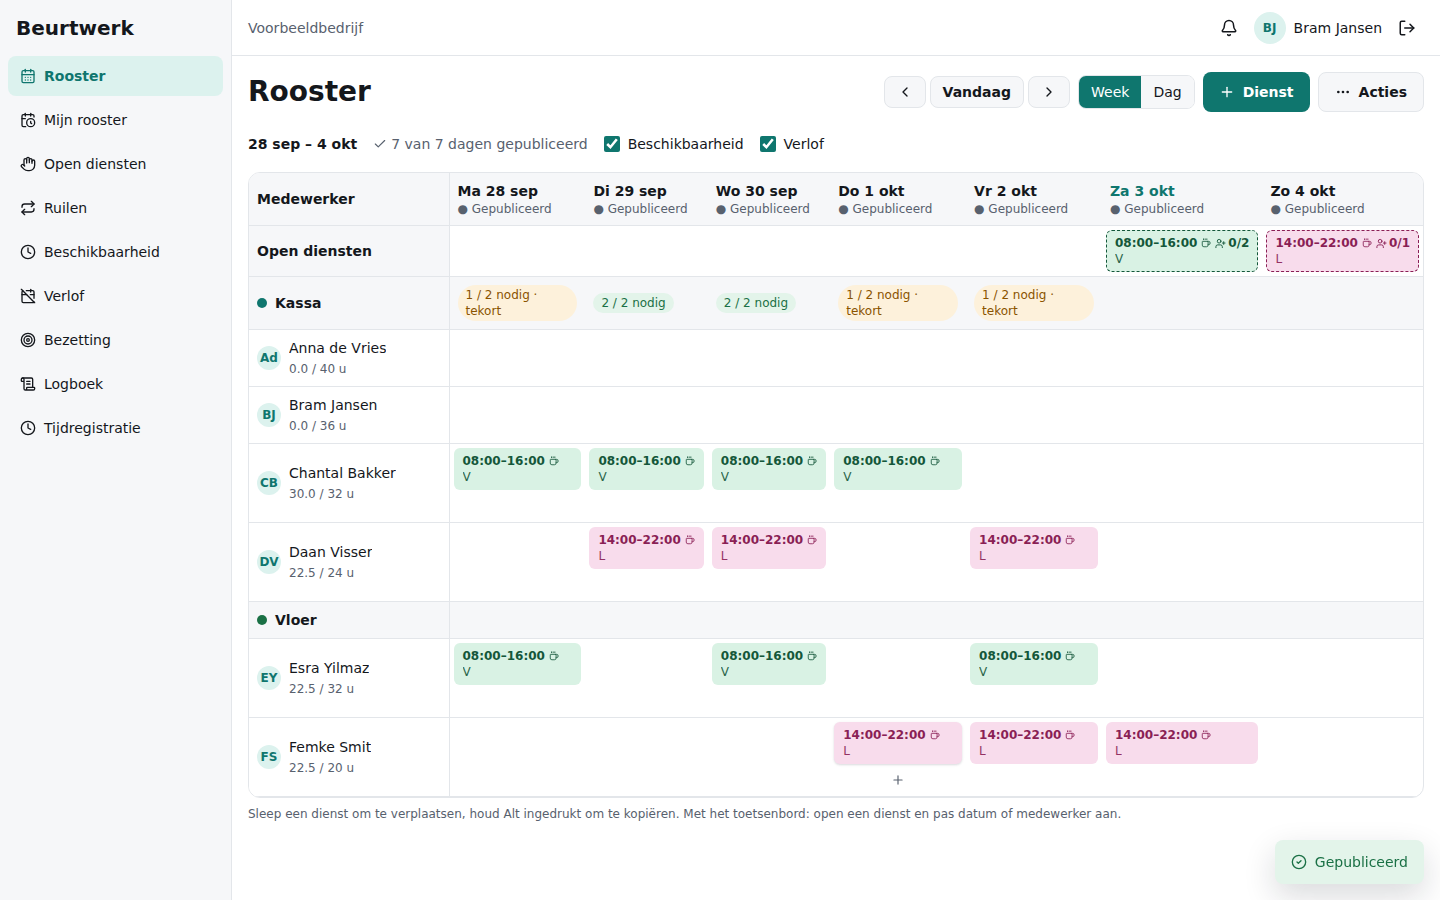
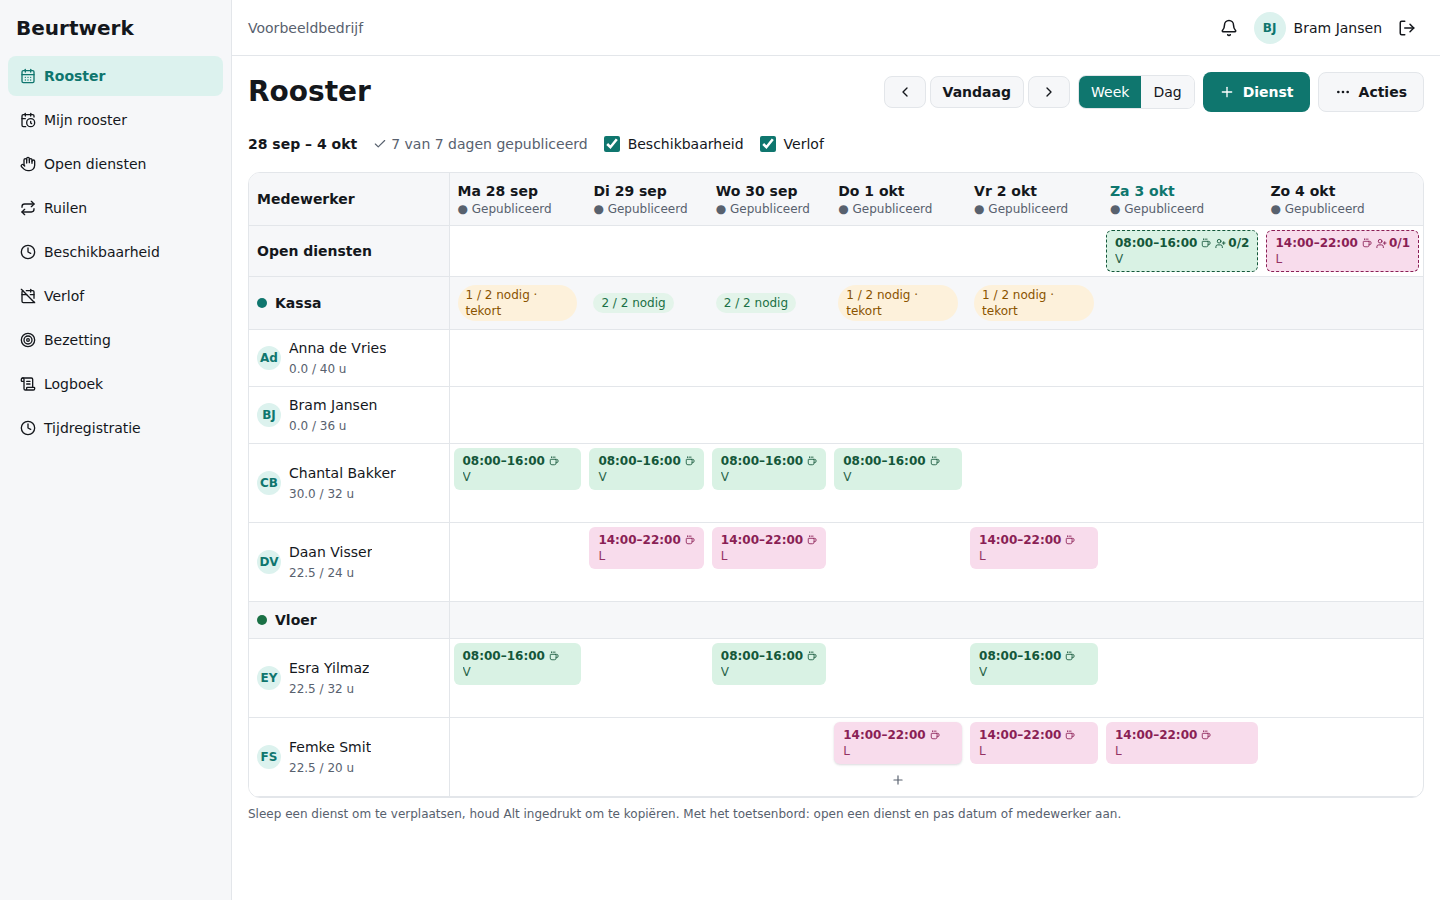
deploy: preflight results and go-live checklist; landing screenshot without toast
Claude-Session: https://claude.ai/code/session_0165Tx877Q4Yp9c9EitCyigK

Changed region(s): [[0.875, 0.9333, 1.0, 0.9956]]

diff --git a/tests/e2e/screens.spec.ts b/tests/e2e/screens.spec.ts
@@ -30,6 +30,6 @@ test('landing screenshot', async ({ page }) => {
   await page.getByRole('button', { name: 'Alles kiezen' }).click();
   await page.getByRole('button', { name: 'Publiceren', exact: true }).click();
   await page.getByRole('button', { name: 'Klaar' }).click();
-  await page.waitForTimeout(300);
+  await page.getByRole('region', { name: 'Meldingen' }).getByRole('status').waitFor({ state: 'detached', timeout: 8000 });
   await page.screenshot({ path: 'public/screens/rooster.png' });
 });

diff --git a/replica/deploy.md b/replica/deploy.md
@@ -1,0 +1,57 @@
+# Deploy
+
+**Verdict: NOT deployed, and not deployable yet.** Two hard stops, both outside what this environment can do: (1) 6 of 18 must-haves are only partial, including real sign-up/sign-in and the live data layer; (2) no accounts exist (Supabase, Vercel, Stripe, Resend, domain). Claude never buys, signs in or handles live keys; this file is the checklist for when you do.
+
+## Preflight, run 2026-10-03
+
+| check | result |
+| --- | --- |
+| `next build` (production, Next 16.3.8) | pass |
+| `tsc --noEmit` | pass |
+| unit + DB + server tests (`npm test`) | 78 pass (RLS, SQL functions, jobs, Stripe, email, domain) |
+| browser tests (`npm run e2e`) | 77 pass: flows, edge cases, axe WCAG A/AA on 14 pages x 2 widths, console/4xx/5xx guard |
+| parity (`parity.py`) | **59.9 / 100, must-haves 12 of 18: FAIL** |
+| brand sweep | clean (names, domains). Original's brand colour never recorded, so colours not swept |
+| store listing lint | 0 errors, 0 warnings (draft; no native app) |
+| `npm audit --omit=dev` | 0 vulnerabilities |
+| secrets in repo | none (`.env*.local` ignored; only a fake key inside a test that checks it is not echoed) |
+| open S1/S2 bugs | none (`bugs.md`) |
+
+By hand, **not done**:
+- [ ] privacy policy and terms pages live, listing every processor (Supabase, Vercel, Stripe, Resend, analytics)
+- [ ] cookie banner: none needed today (no cookies set by the demo; revisit with Supabase auth cookies, which are strictly necessary, and with analytics)
+- [ ] account deletion UI (SQL function `delete_my_account()` exists and is tested; no button yet)
+- [ ] favicon is a placeholder; no Open Graph image; titles come from `src/lib/brand.ts`
+- [ ] name cleared (`brand.md`: trademark, domain and handle checks all "to run")
+
+## What blocks going live (in order)
+
+1. Live data layer + auth screens (`backend.md` items 1 and 2).
+2. Remaining must-haves: month view, locations as records, employee CSV import (`parity.md` top five).
+3. Privacy/terms pages, account deletion button, name clearance.
+4. Real reviews for a chosen niche, so the angle is evidence-based (`feedback.md`).
+
+## When you are ready: the steps only you can do
+
+**Production database.** New Supabase project (not the dev one), EU region, daily backups on. Run migrations in order: `supabase db push` (or paste `supabase/migrations/0001..0005`). Never run them by hand in production without a backup.
+
+**Vercel.** Import this repo, framework Next.js, `main` deploys, PRs get previews. Env vars (names from `.env.example`, live values only here):
+`NEXT_PUBLIC_SUPABASE_URL`, `NEXT_PUBLIC_SUPABASE_ANON_KEY`, `SUPABASE_SERVICE_ROLE_KEY` (server only), `STRIPE_SECRET_KEY`, `STRIPE_WEBHOOK_SECRET`, `STRIPE_PRICE_ID`, `RESEND_API_KEY`, `EMAIL_FROM`, `APP_URL`, `CRON_SECRET` (24+ random chars). `vercel.json` already schedules the five cron jobs; Vercel sends `CRON_SECRET` as the bearer token. Note: Vercel's free plan limits cron frequency (the per-minute email job needs a paid plan, or use Supabase pg_cron / an external scheduler).
+
+**Stripe.** Switch to live mode. Create the "Team" product with a monthly and a yearly per-unit price (`pricing.md`), set `STRIPE_PRICE_ID`, add the webhook endpoint `https://<domain>/api/webhooks/stripe` for `checkout.session.completed`, `customer.subscription.updated`, `customer.subscription.deleted`, `invoice.payment_failed`, copy its signing secret to `STRIPE_WEBHOOK_SECRET`. Configure the Customer Portal (cancel on, quantity changes off). Then buy once with a real card and refund it.
+
+**Supabase Auth.** Site URL and redirect URLs set to the production domain; email templates in Dutch in the brand voice; email confirmations on.
+
+**Domain** (after you buy it at any registrar):
+
+| record | name | value |
+| --- | --- | --- |
+| A | @ | the IP Vercel shows in the domain settings |
+| CNAME | www | `cname.vercel-dns.com` |
+| TXT | as asked | Vercel's verification value, if requested |
+
+**Email DNS** from Resend: SPF (TXT), DKIM (CNAME/TXT), and DMARC `v=DMARC1; p=none; rua=mailto:you@yourdomain`, tightened to `quarantine` after clean reports. Without these the confirmation mails go to spam. Pick one canonical host (apex or www) and redirect the other; check HTTPS.
+
+**Watch it.** Sentry (errors), an uptime check on `/` and on `/login`, logs retained, Plausible (no cookie banner needed), an alert to your email. First week: look at failed webhook deliveries in Stripe, `notifications` rows with `attempts >= 5` (dead letters), cron run results, and the audit log for anything odd. Do the core flow yourself on the live site, then on your phone.
+
+**Mobile.** No native app. Ship the PWA first (add a manifest and web push). If an app is wanted later: Expo + `eas build` / `eas submit`; you own the Apple ($99/yr) and Google ($25 once) developer accounts.
